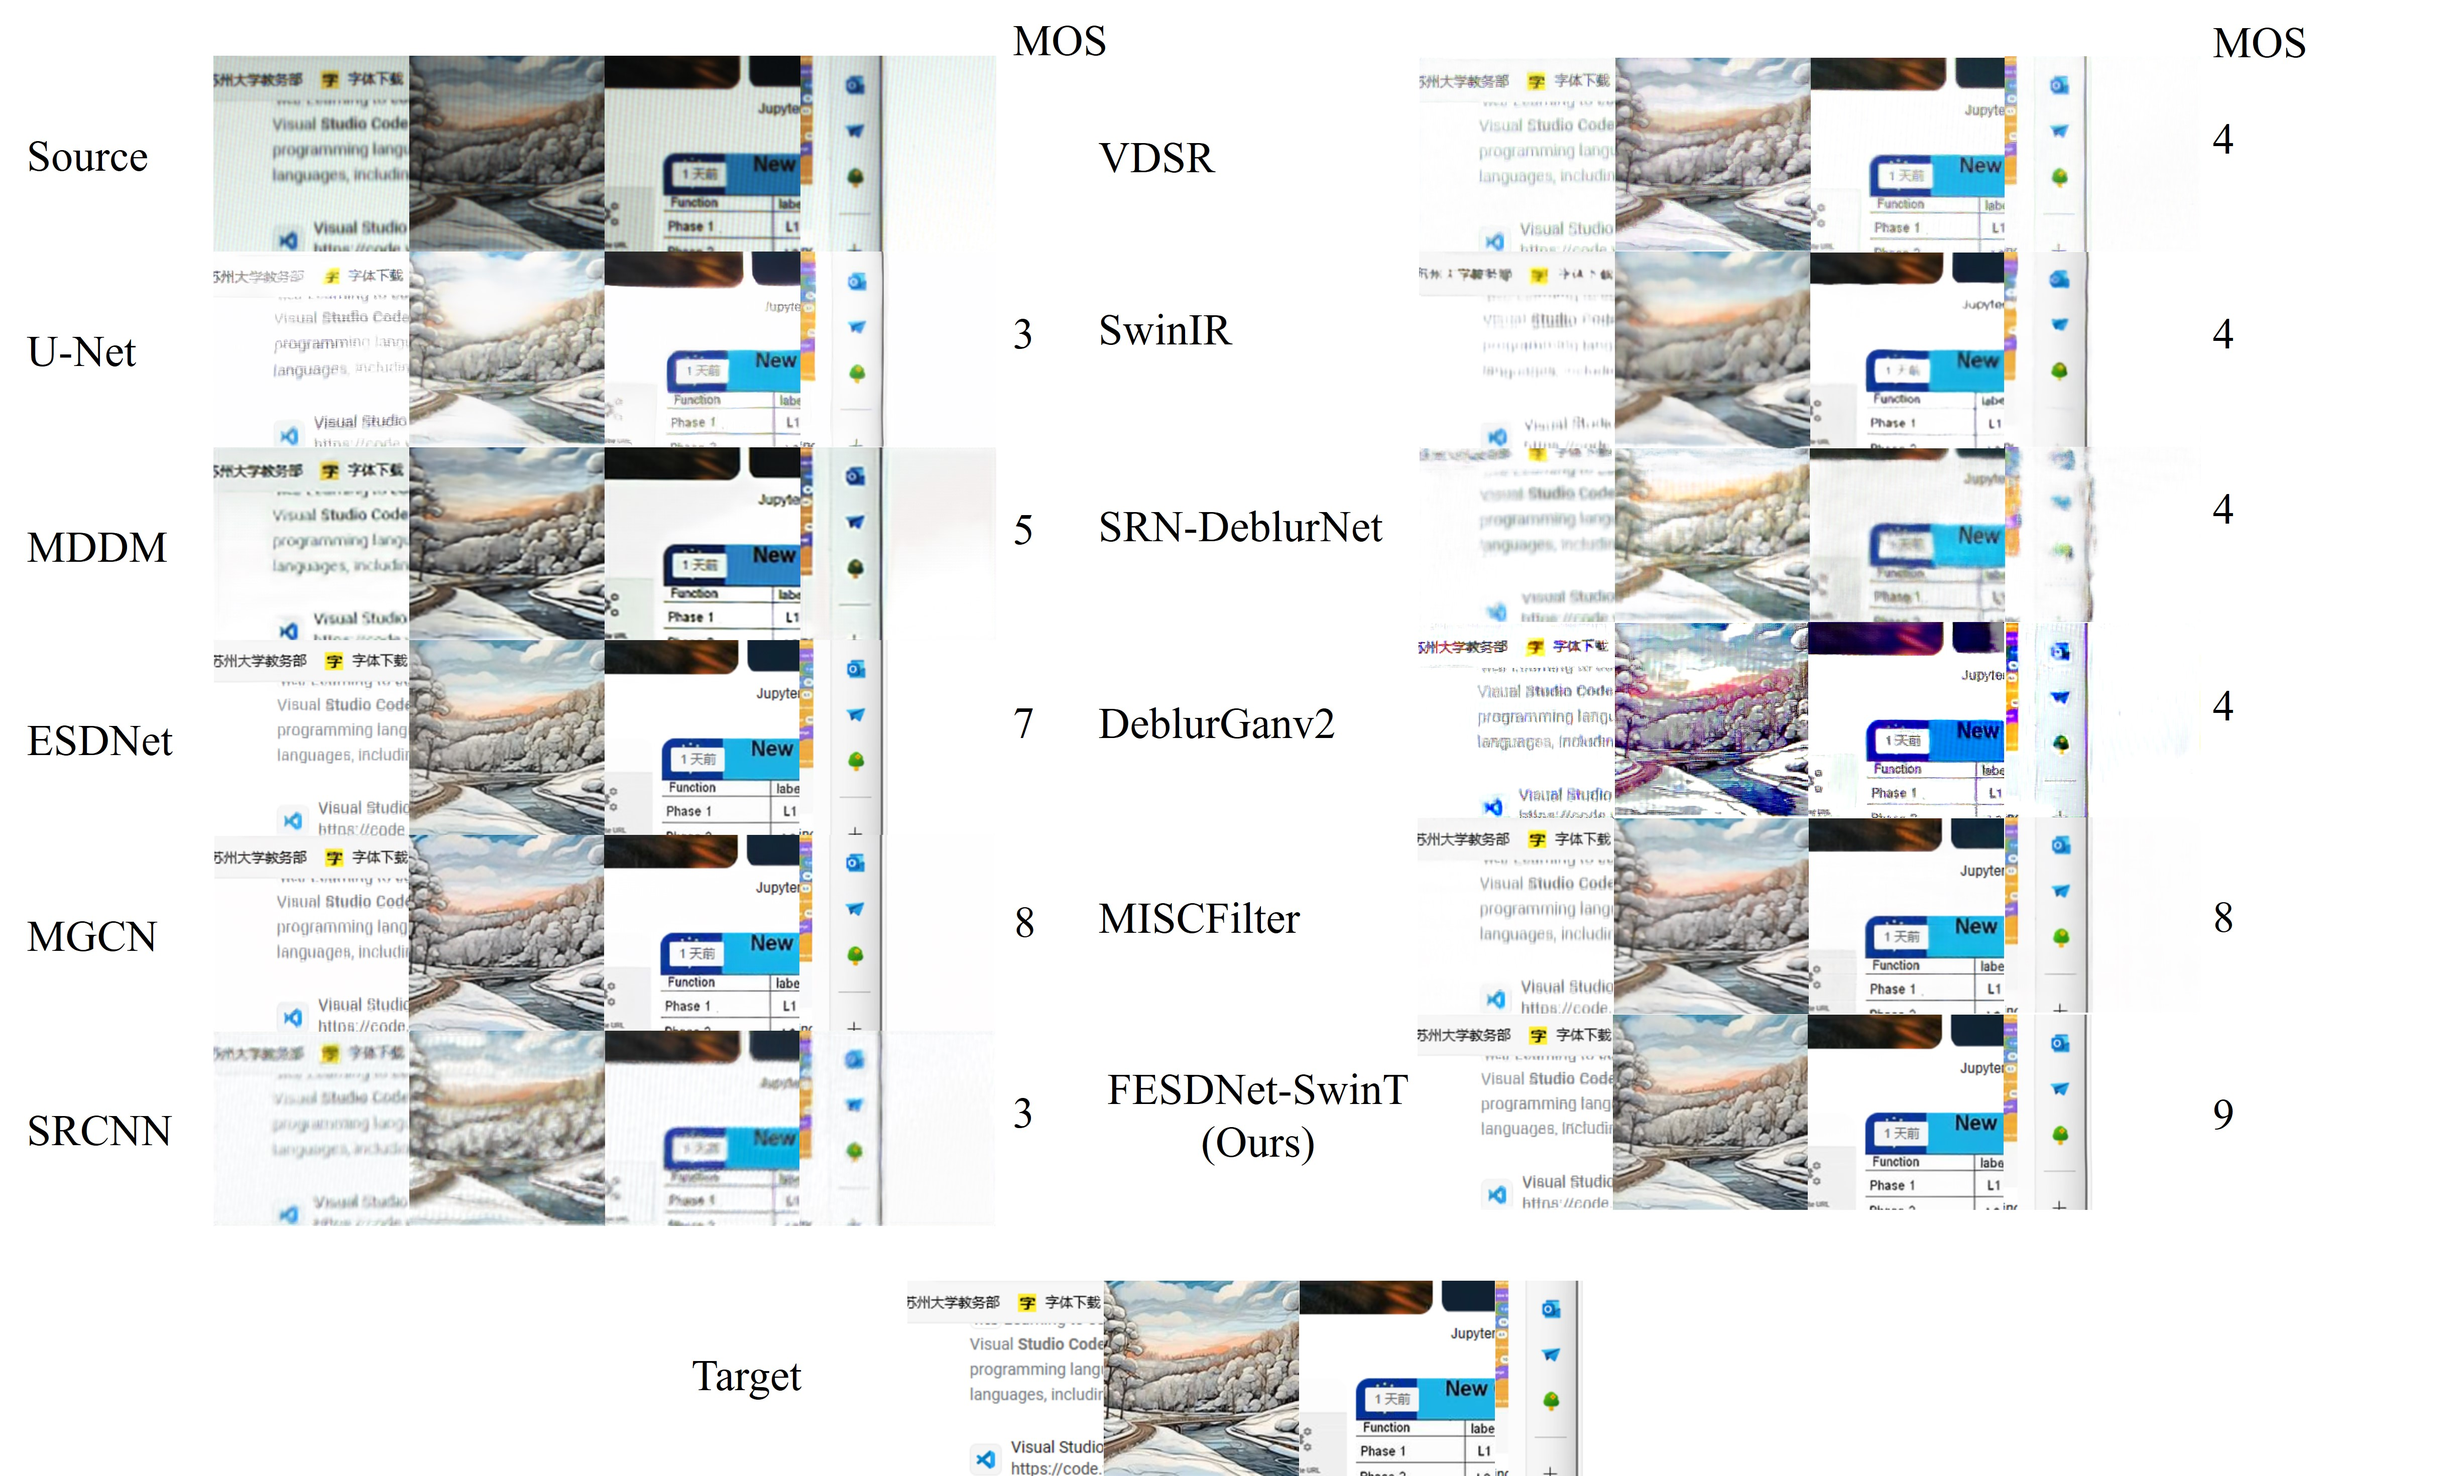
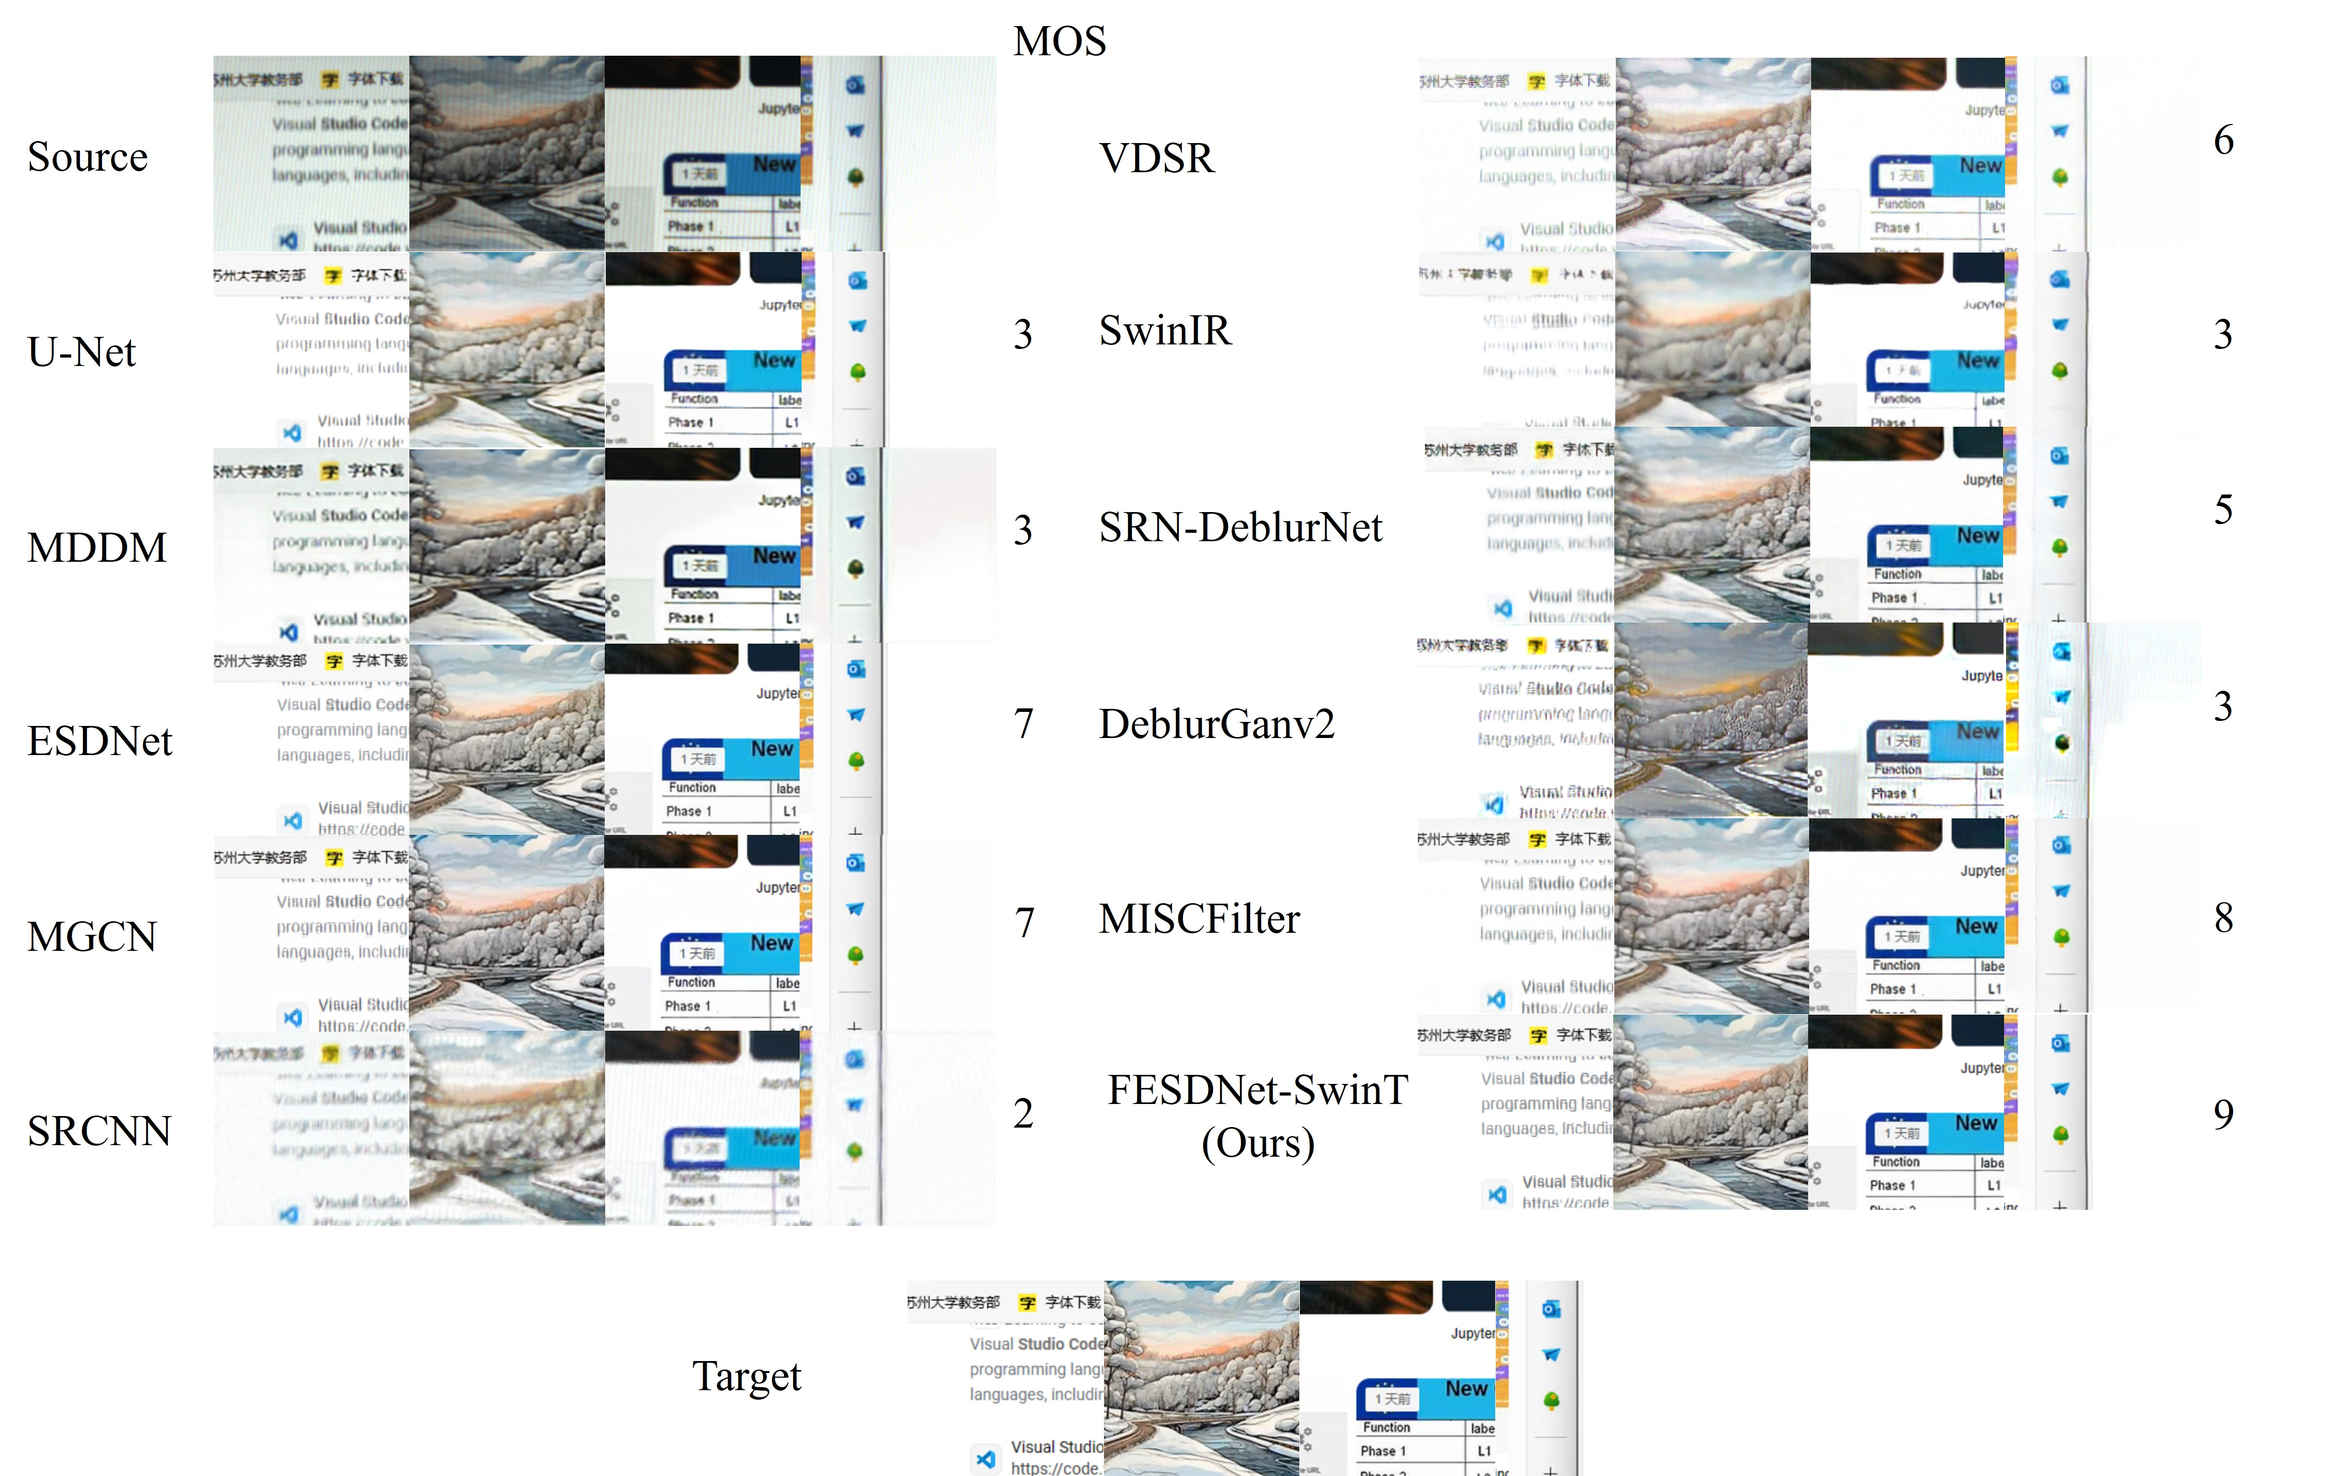
pc_1

diff --git a/README.md b/README.md
@@ -87,14 +87,14 @@ python demo_test.py --config ./demo_config/demo.yaml
 | ------------------------------------- | --------- | --------- | ---------- | --------------- |------------| ----------------- | ----------------- | ------------------------------------- | ------------------------------------- |
 | Camera-Captured Image                 | -               | 14.22     | 0.550     | 0.469      | -     | -          | -               | -        | 0.652             |
 | U-Net      | Image Restoration Base Model | 22.75     | 0.875     | 0.061      | 2.35 ms | 48.36 G  | 28.95 M | 3        | 0.520             |
-| MDDM            | Image Demoiréing | 19.13     | 0.766     | 0.240      | 14.16 ms | 27.65 G  | 3.58 M     | 5        | 0.523             |
+| MDDM            | Image Demoiréing | 19.13     | 0.766     | 0.240      | 14.16 ms | 27.65 G  | 3.58 M     | 3       | 0.523             |
 | ESDNet | Image Demoiréing | 27.07 | 0.918 | 0.051 | 12.58 ms | 17.63 G  | 5.93 M | 7 | 0.895 |
-| MGCN | Image Demoiréing | 24.93 | 0.911 | 0.045 | 25.61 ms | 53.64 G  | 5.66 M | 8 | 0.884 |
-| SRCNN | Image Super-Resolution          | 19.30     | 0.822     | 0.335      | 0.23 ms | 4.55 G   | 0.07 M      | 3        | 0.250             |
-| VDSR        | Image Super-Resolution          | 18.11     | 0.715     | 0.143      | 0.33 ms | 7.52 G     | 0.11 M      | 4        | 0.696             |
-| SwinIR | Image Super-Resolution | 19.64 | 0.765 | 0.271 | 64.64 ms | 57.99 G  | 0.91 M | 4 | 0.683 |
-| SRN-DeblurNet    | Image Deblurring | 22.56     | 0.861     | 0.157      | 14.91 ms | 108.66 G  | 10.25 M    | 4        | 0.438             |
-| DeblurGanv2 | Image Deblurring | 16.65     | 0.658     | 0.172      | 20.65 ms | 25.61 G  | 5.09 M | 4        | 0.389             |
+| MGCN | Image Demoiréing | 24.93 | 0.911 | 0.045 | 25.61 ms | 53.64 G  | 5.66 M | 7 | 0.884 |
+| SRCNN | Image Super-Resolution          | 19.30     | 0.822     | 0.335      | 0.23 ms | 4.55 G   | 0.07 M      | 2        | 0.250             |
+| VDSR        | Image Super-Resolution          | 18.11     | 0.715     | 0.143      | 0.33 ms | 7.52 G     | 0.11 M      | 6       | 0.696             |
+| SwinIR | Image Super-Resolution | 19.64 | 0.765 | 0.271 | 64.64 ms | 57.99 G  | 0.91 M | 3 | 0.389 |
+| SRN-DeblurNet    | Image Deblurring | 22.56     | 0.861     | 0.157      | 14.91 ms | 108.66 G  | 10.25 M    | 5        | 0.683  |
+| DeblurGanv2 | Image Deblurring | 16.65     | 0.658     | 0.172      | 20.65 ms | 25.61 G  | 5.09 M | 3       | 0.438        |
 | MISCFilter | Image Deblurring | 24.31 | 0.875 | 0.082 | 53.42 ms | 2.34 G   | 15.99 M | 8 | 0.891 |
 | FESDNet-SwinT (Ours)            | Comprehensive Image Restoration | 28.34 | 0.933 | 0.044  | 17.59 ms | 19.10 G  | 6.52 M     | 9    | 0.904         |
 
